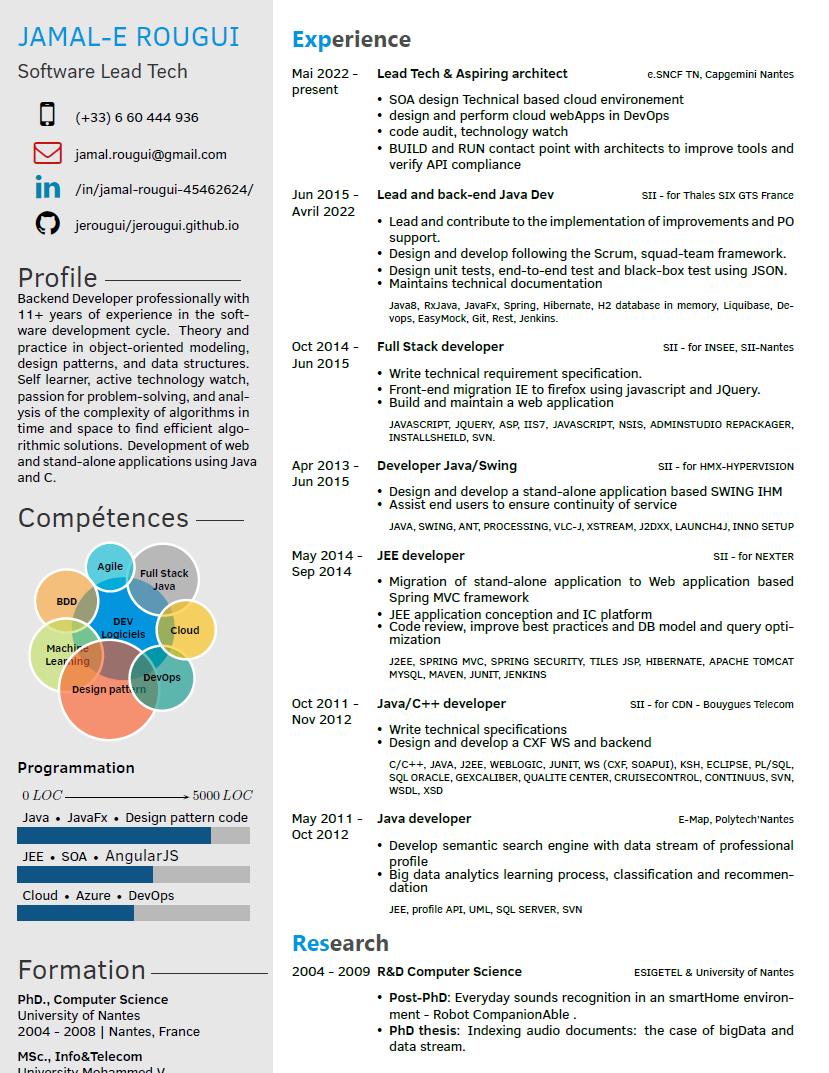
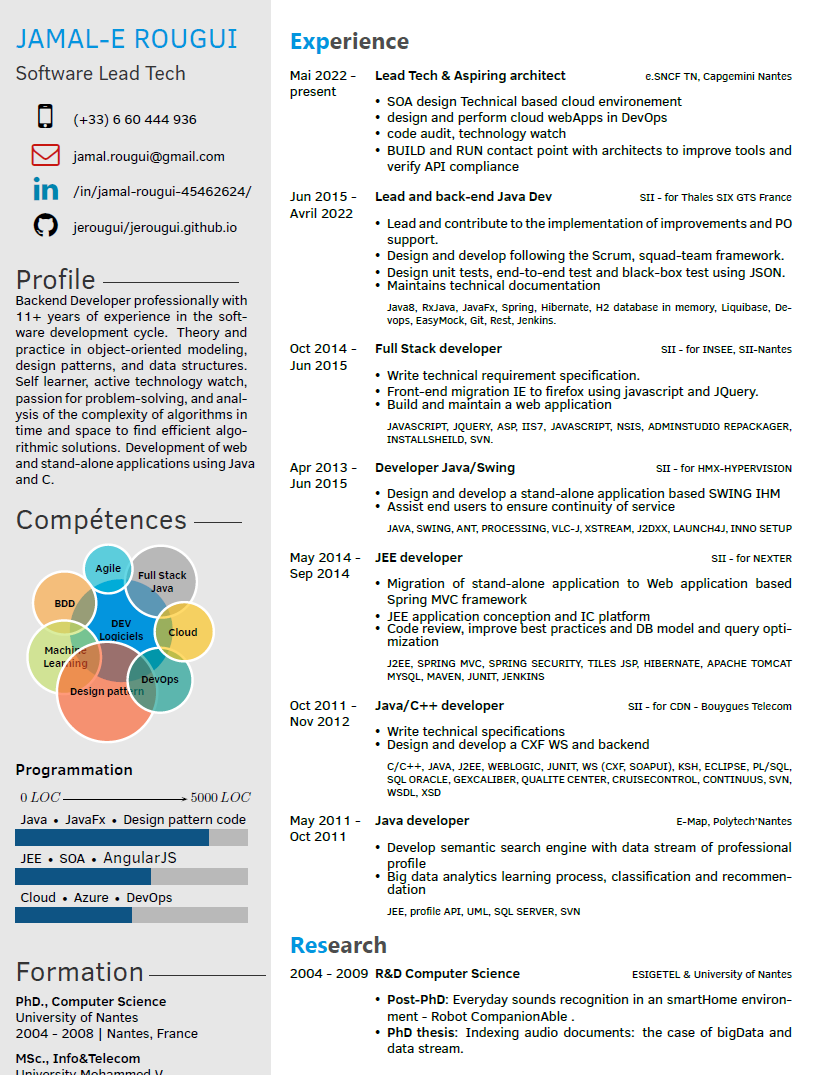
[2023-01] fix start date

diff --git a/CV_ROUGUI_01_2022_EN.tex b/CV_ROUGUI_01_2022_EN.tex
@@ -167,7 +167,7 @@ University Mohammed V \\
 	   \\
 	    \twentyitem
 	    {May 2011 -}
-	    {Oct 2012}
+	    {Oct 2011}
 	    {Java developer}
 	    {\href{}{E-Map, Polytech'Nantes}}
 	    {}
